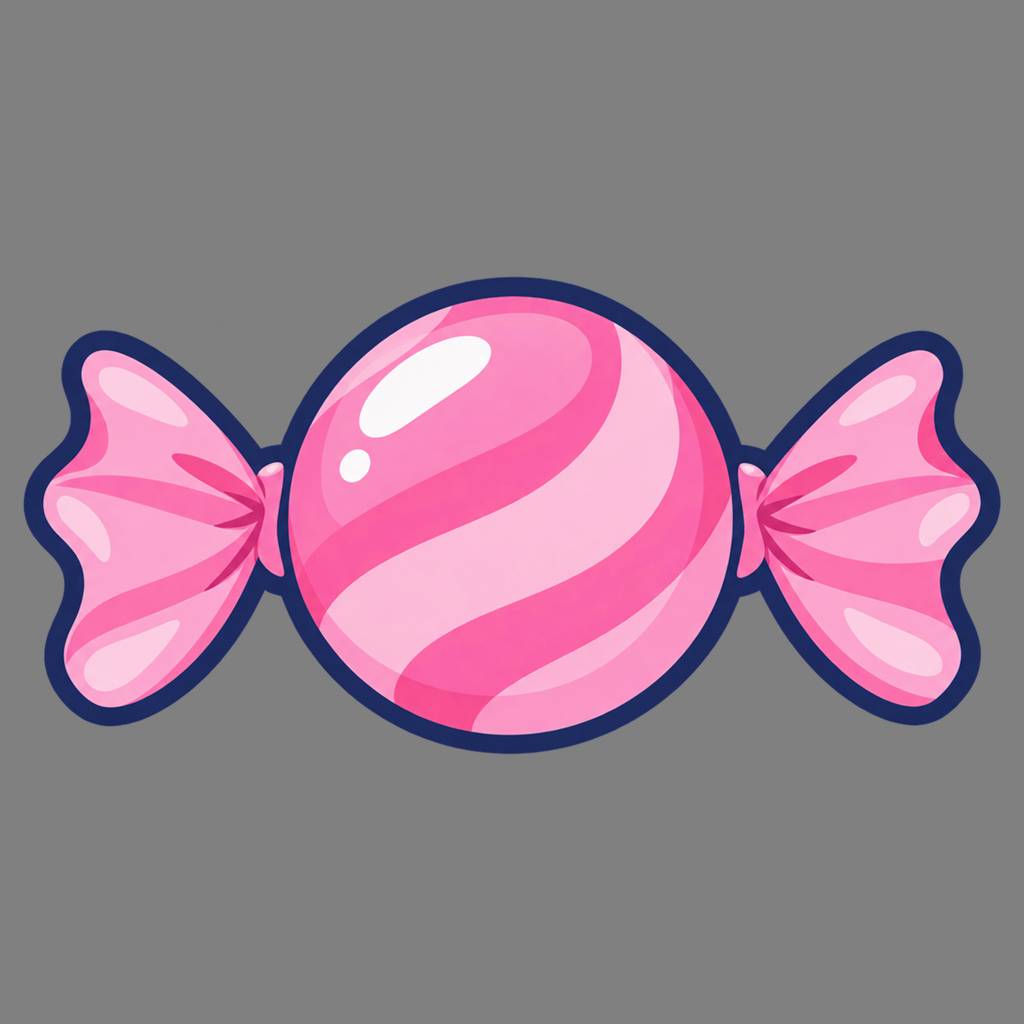
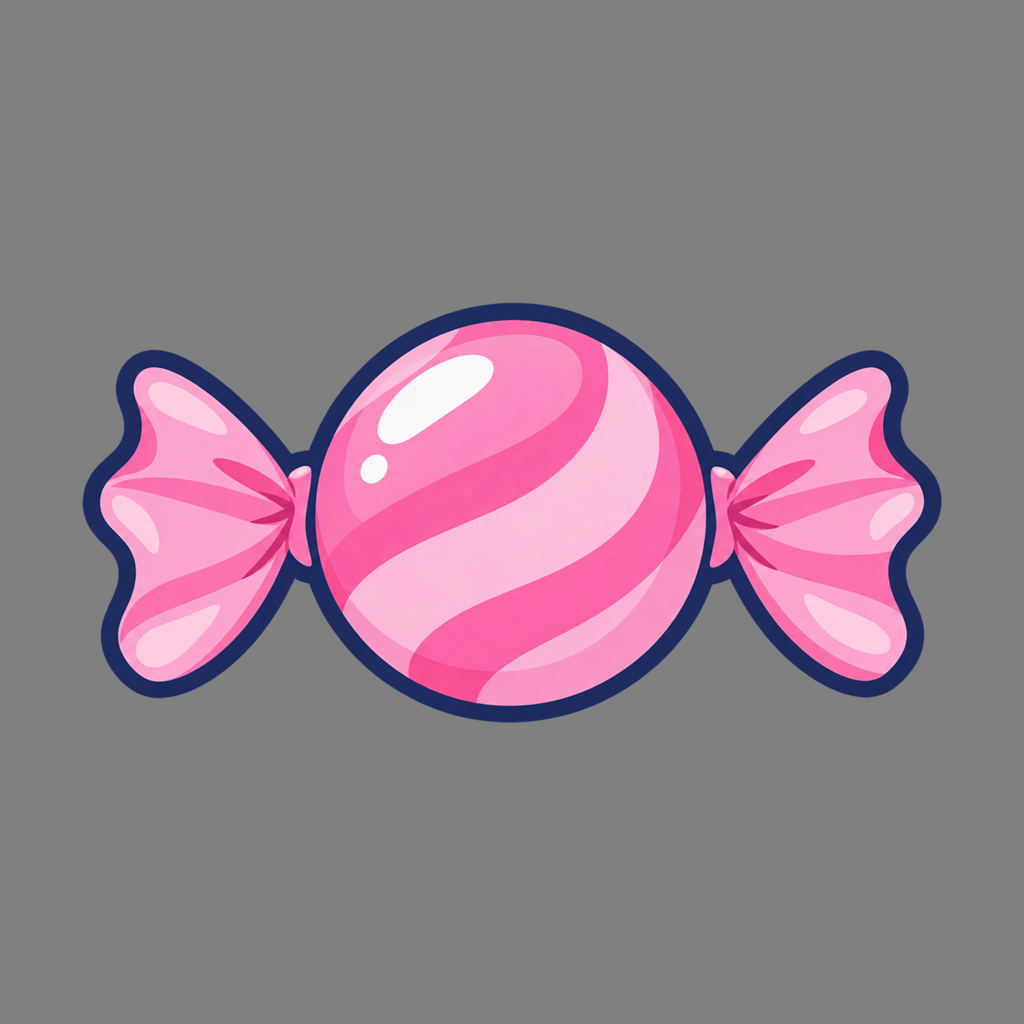
Feed hint taps the bell; no drag shadow on puzzle tiles

Changed region(s): [[0.0, 0.25, 1.0, 0.75], [0.4375, 0.4375, 0.5, 0.4688], [0.5, 0.4062, 0.5312, 0.4375]]

diff --git a/js/games/feed.js b/js/games/feed.js
@@ -82,7 +82,7 @@ GAMES.feed = function(stage,L,done){
   stage.append(root);renderBowl();later(()=>{if(!interacted&&!finished)ask()},1000);
   idleHint(()=>{
     if(finished)return;
-    if(!showSlots&&fed.length===needed)return {tap:ruby};
+    if(!showSlots&&fed.length===needed)return {tap:mid.children[1]||ruby};
     if(!showSlots&&fed.length>needed)return {tap:bowlFish.firstElementChild};
     return {from:fish.find(f=>!f.classList.contains('placed')),to:bowl};
   });

diff --git a/css/style.css b/css/style.css
@@ -317,3 +317,4 @@ button.piece{cursor:pointer}
   50%,77%{opacity:.65;transform:translate(var(--tx),var(--ty)) translate(-50%,-15%)}
   64%,100%{opacity:0;transform:translate(var(--tx),var(--ty)) translate(-50%,-15%)}
 }
+.piece.puzzle-tile.dragging{box-shadow:none}
